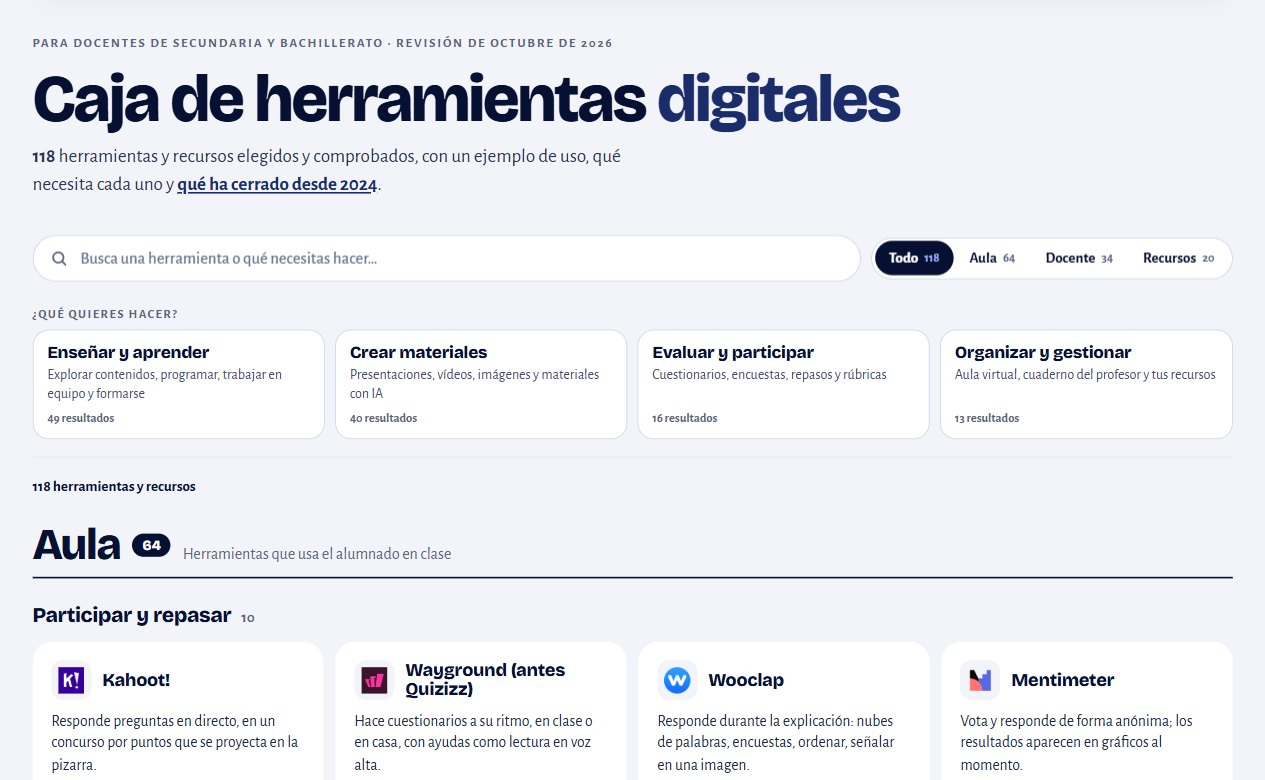
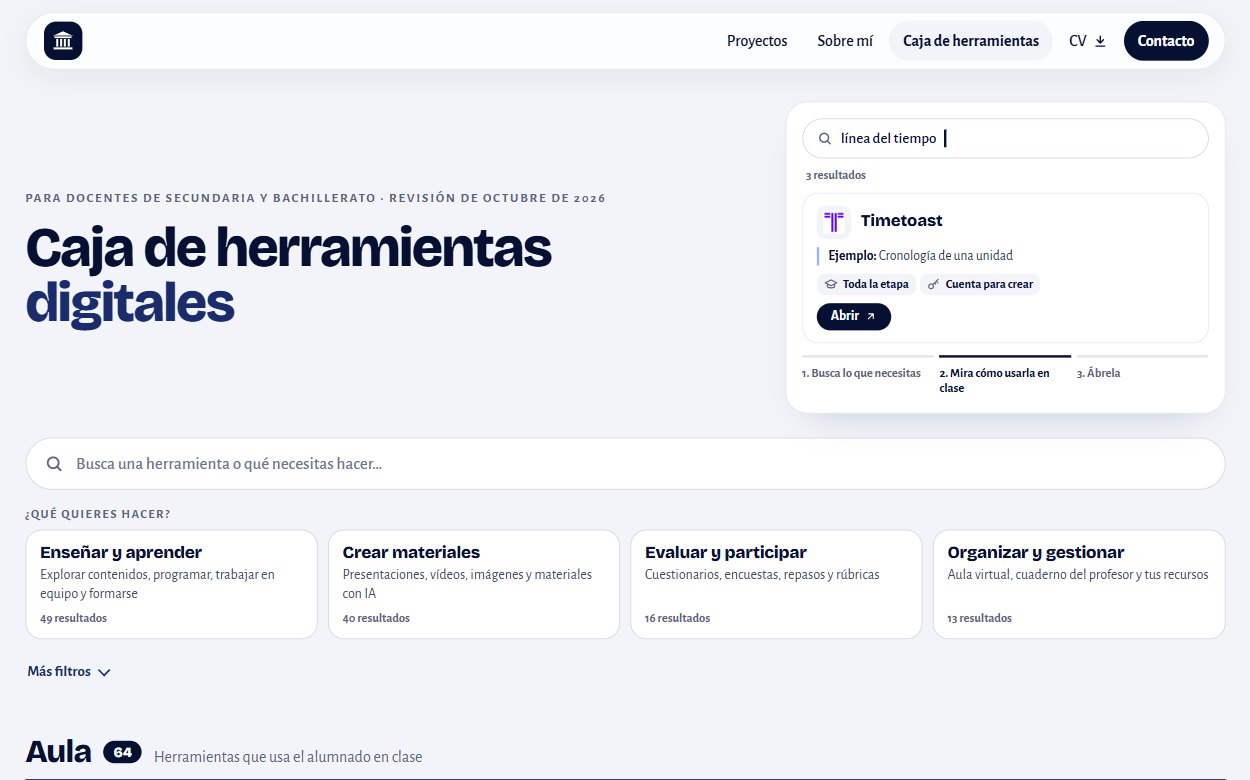
Caja de herramientas: animación en el hero, más aire entre categorías y sin recuento total
Actualizadas las capturas y el texto de la Caja en la página del Repositorio digital.

diff --git a/herramientas/index.html b/herramientas/index.html
@@ -115,8 +115,38 @@ footer a{font-weight:700}
 .head{margin-top:32px}
 .head h1{font:800 clamp(34px,4.4vw,56px)/1 var(--f-disp);letter-spacing:-.03em;margin-top:10px}
 .head h1 span{color:var(--navy3)}
-.head-p{font-size:clamp(16.5px,1.5vw,18.5px);color:#2A3352;margin-top:10px;max-width:62ch}
-.head-p a{font-weight:700;color:var(--navy3)}
+.head{display:grid;grid-template-columns:minmax(0,1fr) minmax(0,440px);gap:24px 48px;align-items:center}
+/* demostración animada: una búsqueda real y la ficha que devuelve, en tres pasos */
+.demo{position:relative;background:#fff;border:1px solid var(--line);border-radius:22px;padding:16px;box-shadow:0 18px 40px -24px rgba(6,16,51,.25)}
+.d-search{display:flex;align-items:center;gap:8px;height:40px;padding:0 14px;border:1px solid #CDD5E5;border-radius:999px;font:500 15px var(--f-body);color:var(--txt)}
+.d-search svg{width:16px;height:16px;stroke:var(--mut);fill:none;stroke-width:2.2;stroke-linecap:round;flex:none}
+.d-q{white-space:nowrap;overflow:hidden}
+.d-caret{width:2px;height:18px;background:var(--navy);animation:blink 1s steps(1) infinite}
+@keyframes blink{50%{opacity:0}}
+.d-n{font:700 12.5px var(--f-body);color:var(--mut);margin:10px 4px 8px;min-height:16px;opacity:0;transition:opacity .3s}
+.d-card{border:1px solid var(--line);border-radius:16px;padding:12px 14px;display:grid;gap:8px;opacity:0;transform:translateY(10px);transition:opacity .45s,transform .45s}
+.demo.s2 .d-n,.demo.s3 .d-n,.demo.s2 .d-card,.demo.s3 .d-card{opacity:1;transform:none}
+.d-card .tool-h{grid-template-columns:34px minmax(0,1fr);gap:10px}
+.d-card .lg{width:34px;height:34px;border-radius:10px}
+.d-card .lg img{width:22px;height:22px}
+.d-card h4{font:800 16.5px/1.1 var(--f-disp)}
+.d-card .ex{font-size:13.5px;line-height:1.35;color:#2A3352;padding-left:9px;border-left:3px solid var(--sky)}
+.d-card .ex b{color:var(--navy)}
+.d-card .facts{gap:4px}
+.d-card .fact{font-size:12.5px;padding:3px 7px}
+.d-open{justify-self:start;display:inline-flex;align-items:center;gap:6px;font:700 13.5px var(--f-body);color:#fff;background:var(--navy);border-radius:999px;padding:6px 14px;transition:transform .3s,box-shadow .3s}
+.d-open svg{width:12px;height:12px;stroke:currentColor;fill:none;stroke-width:2.2;stroke-linecap:round;stroke-linejoin:round}
+.demo.s3 .d-open{transform:scale(1.06);box-shadow:0 0 0 5px rgba(159,179,255,.55)}
+.d-steps{list-style:none;padding:0;display:grid;grid-template-columns:repeat(3,minmax(0,1fr));gap:6px;margin-top:12px;counter-reset:d}
+.d-steps li{counter-increment:d;font:700 12.5px/1.25 var(--f-body);color:var(--mut);padding-top:8px;border-top:3px solid var(--line);transition:color .3s,border-color .3s}
+.d-steps li::before{content:counter(d) ". "}
+.demo.s1 .d-steps li:nth-child(1),.demo.s2 .d-steps li:nth-child(2),.demo.s3 .d-steps li:nth-child(3){color:var(--navy);border-color:var(--navy)}
+.d-pause{position:absolute;top:-12px;right:-12px;width:32px;height:32px;border-radius:50%;border:1px solid var(--line);background:#fff;display:grid;place-items:center;cursor:pointer;box-shadow:0 4px 12px rgba(6,16,51,.08)}
+.d-pause svg{width:12px;height:12px;fill:var(--navy)}
+.d-pause[hidden]{display:none}
+@media (max-width:900px){.head{grid-template-columns:1fr}.demo{max-width:520px}}
+@media (max-width:560px){.demo{padding:12px}.d-card .ex{display:none}.d-pause{top:-10px;right:-6px}}
+@media (prefers-reduced-motion:reduce){.d-card,.d-n,.d-steps li,.d-open{transition:none}.d-caret{animation:none}}
 
 /* buscador: primer nivel = búsqueda + «¿Qué quieres hacer?» */
 .finder{margin-top:24px}
@@ -173,6 +203,7 @@ footer a{font-weight:700}
 
 /* resultados y filtros activos */
 .state{display:flex;align-items:center;gap:10px;flex-wrap:wrap;margin-top:16px;padding-top:14px;border-top:1px solid var(--line);min-height:44px}
+.state:empty{min-height:0;padding:0;border:0}
 .state .count{margin:0;font:700 15px var(--f-body);color:var(--navy)}
 .active{display:flex;flex-wrap:wrap;align-items:center;gap:6px}
 .tagx{display:inline-flex;align-items:center;gap:6px;font:600 14px var(--f-body);color:var(--navy);background:var(--ice);border:0;border-radius:999px;padding:6px 8px 6px 12px;min-height:34px;cursor:pointer}
@@ -202,15 +233,15 @@ body.mini-on .top{transform:translateY(-140%)}
 @media (prefers-reduced-motion:reduce){.goal,.mf-t::after,.top{transition:none}}
 
 /* listado */
-.secblock{margin-top:88px}
+.secblock{margin-top:120px}
 .secblock:first-child{margin-top:28px}
 .sec-t{display:flex;align-items:baseline;gap:12px;flex-wrap:wrap;padding-bottom:10px;border-bottom:2px solid var(--navy)}
 .sec-t h2{font:800 clamp(26px,2.6vw,32px)/1 var(--f-disp);letter-spacing:-.02em}
 .sec-t .n{font:800 14px var(--f-disp);background:var(--navy);color:#fff;border-radius:999px;padding:3px 10px;align-self:center}
 .sec-t p{color:var(--mut);font-size:16px}
-.cat{margin-top:52px}
-.secblock .cat:first-of-type{margin-top:28px}
-.cat-h{display:flex;align-items:baseline;gap:10px;margin-bottom:16px}
+.cat{margin-top:80px}
+.secblock .cat:first-of-type{margin-top:40px}
+.cat-h{display:flex;align-items:baseline;gap:10px;margin-bottom:20px}
 .cat-h h3{font:800 21px/1.1 var(--f-disp);letter-spacing:-.015em}
 .cat-h span{color:var(--mut);font-weight:700;font-size:15px}
 .grid{display:grid;grid-template-columns:repeat(auto-fill,minmax(min(100%,272px),1fr));gap:16px;align-items:stretch}
@@ -348,9 +379,20 @@ body.mini-on .top{transform:translateY(-140%)}
 
 <main>
  <section class="head" aria-labelledby="ph1">
-  <span class="lab">Para docentes de Secundaria y Bachillerato · Revisión de octubre de 2026</span>
-  <h1 id="ph1">Caja de herramientas <span>digitales</span></h1>
-  <p class="head-p"><b id="s-total">118</b> herramientas y recursos elegidos y comprobados, con un ejemplo de uso, qué necesita cada uno y <a href="#cambios">qué ha cerrado desde 2024</a>.</p>
+  <div class="head-t">
+   <span class="lab">Para docentes de Secundaria y Bachillerato · Revisión de octubre de 2026</span>
+   <h1 id="ph1">Caja de herramientas <span>digitales</span></h1>
+   <p class="sr">Herramientas y recursos elegidos y comprobados. Busca lo que necesitas, mira cómo usarlo en clase con un ejemplo y ábrelo.</p>
+  </div>
+  <div class="demo s1" id="demo">
+   <div aria-hidden="true">
+    <div class="d-search"><svg viewBox="0 0 24 24"><circle cx="11" cy="11" r="6.5"/><path d="m20 20-4.4-4.4"/></svg><span class="d-q" id="d-q"></span><span class="d-caret"></span></div>
+    <p class="d-n" id="d-n"></p>
+    <div class="d-card" id="d-card"></div>
+    <ol class="d-steps"><li>Busca lo que necesitas</li><li>Mira cómo usarla en clase</li><li>Ábrela</li></ol>
+   </div>
+   <button type="button" class="d-pause" id="d-pause" aria-label="Pausar la animación" hidden><svg viewBox="0 0 24 24" aria-hidden="true"><rect x="6" y="5" width="4" height="14" rx="1"/><rect x="14" y="5" width="4" height="14" rx="1"/></svg></button>
+  </div>
  </section>
 
  <section class="finder" id="herramientas" aria-label="Buscar en la caja">
@@ -422,7 +464,7 @@ body.mini-on .top{transform:translateY(-140%)}
 <footer><span>Jorge Delgado Aguilera · Diseño de materiales educativos digitales</span><span>Revisado en octubre de 2026 · <a href="/">Volver al portfolio</a></span></footer>
 </div>
 
-<script src="tools.js?v=6"></script>
+<script src="tools.js?v=7"></script>
 <script>
 // si los datos no llegan o algo falla al pintar, se avisa en lugar de mostrar un catálogo vacío
 function loadFail(why){
@@ -591,10 +633,10 @@ function render(){
  if(state.sec!=='all')act.push(`<button type="button" class="tagx" data-rm="sec">${SECTIONS[state.sec].n}${X}<span class="sr"> Quitar el tipo de recurso</span></button>`);
  if(state.area!==null)act.push(`<button type="button" class="tagx" data-rm="area">${AR[state.area].n}${X}<span class="sr"> Quitar la materia</span></button>`);
  const what=act.length?`${shown} ${shown===1?'resultado':'resultados'}`:`${shown} ${unit(shown)}`;
- $('state').innerHTML=`<p class="count">${what}</p>`+(act.length?`<div class="active"><span class="sr">Filtros activos:</span>${act.join('')}${act.length>1?'<button type="button" class="clearall" data-rm="all">Limpiar todo</button>':''}</div>`:'');
+ $('state').innerHTML=!act.length?'':`<p class="count">${what}</p>`+(act.length?`<div class="active"><span class="sr">Filtros activos:</span>${act.join('')}${act.length>1?'<button type="button" class="clearall" data-rm="all">Limpiar todo</button>':''}</div>`:'');
  $('q-clear').hidden=!state.raw;
  $('mb-n').textContent=(state.p!==null)+sec2||'';
- $('mb-c').textContent=what;
+ $('mb-c').textContent=act.length?what:'';
  // estado vacío: solo si de verdad no hay resultados (el texto no existe en la página hasta entonces)
  const E=$('empty');
  if(shown){E.hidden=true;E.innerHTML='';return;}
@@ -640,7 +682,6 @@ if('IntersectionObserver' in window){
  const io2=new IntersectionObserver(([e])=>{const past=!e.isIntersecting&&e.boundingClientRect.top<0;$('minibar').hidden=!past;document.body.classList.toggle('mini-on',past);});
  io2.observe($('herramientas'));
 }
-$('s-total').textContent=TOOLS.length;
 try{render();}catch(err){console.error(err);loadFail('Ha fallado al mostrarse.');}
 
 // ---------- qué ha cambiado: balance con los datos de la caja
@@ -655,6 +696,34 @@ $('changes').innerHTML=CHANGES.slice(0,-1).map(c=>{
  return `<div class="chrow rv"><div><span class="tagc ${rename?'nombre':'cierre'}">${rename?'Cambio de nombre':'Ha cerrado'}</span><h3>${esc(c.n)}</h3><p>${esc(c.what)}</p></div><span class="arrow" aria-hidden="true">${I.arrow}</span><div class="now"><span class="lab">${rename?'Dónde está ahora':'Qué usar ahora'}</span><p>${esc(c.alt)}</p></div></div>`;
 }).join('');
 $('chnew').innerHTML=`<div><span class="lab">Novedad</span><h3>${esc(last.n)}</h3><p>${esc(last.what)}</p></div><div class="alt"><b>Qué hacer</b><p>${esc(last.alt)}</p></div>`;
+
+// ---------- demostración del hero: búsquedas reales y la primera ficha que devuelve el propio buscador
+(()=>{
+ const D=$('demo'),Q=$('d-q'),N=$('d-n'),C=$('d-card'),B=$('d-pause');
+ const scenes=['línea del tiempo','cuestionario','geometría','programar'].map(q=>{const r=TOOLS.filter(t=>t.s!=='recursos'&&match(t,query(q)));return r.length?{q,n:r.length,t:r[0]}:null}).filter(Boolean);
+ if(!scenes.length){D.hidden=true;return;}
+ const draw=sc=>{const t=sc.t,aula=t.s==='aula',m=t.n.match(/^(.+?)\s*\((.+)\)$/);
+  N.textContent=`${sc.n} ${sc.n===1?'resultado':'resultados'}`;
+  C.innerHTML=`<div class="tool-h"><span class="lg">${logo(t)}</span><h4>${esc(m?m[1]:t.n)}</h4></div><p class="ex"><b>Ejemplo:</b> ${esc(t.i[0])}</p><div class="facts">${aula?fact(I.cap,t.c)+fact(I.key,t.cta,/^no necesita/i.test(t.cta)?'ok':''):fact(I.eur,t.coste,/gratu|incluido|sin coste/i.test(t.coste)?'ok':'')}</div><span class="d-open">Abrir ${I.ext}</span>`;};
+ const still=matchMedia('(prefers-reduced-motion: reduce)');
+ let i=0,timers=[],paused=false,seen=true;
+ const clear=()=>{timers.forEach(clearTimeout);timers=[];};
+ const at=(ms,f)=>timers.push(setTimeout(f,ms));
+ const play=()=>{clear();const sc=scenes[i%scenes.length];D.className='demo s1';Q.textContent='';draw(sc);
+  [...sc.q].forEach((ch,k)=>at(400+k*75,()=>{Q.textContent+=ch}));
+  const t0=400+sc.q.length*75+350;
+  at(t0,()=>{D.className='demo s2'});at(t0+2600,()=>{D.className='demo s3'});at(t0+4200,()=>{i++;if(!paused&&seen)play();});};
+ const showStill=()=>{clear();const sc=scenes[0];draw(sc);Q.textContent=sc.q;D.className='demo s2';};
+ const icon=p=>p?'<svg viewBox="0 0 24 24" aria-hidden="true"><path d="M7 5v14l12-7z"/></svg>':'<svg viewBox="0 0 24 24" aria-hidden="true"><rect x="6" y="5" width="4" height="14" rx="1"/><rect x="14" y="5" width="4" height="14" rx="1"/></svg>';
+ const setPause=p=>{paused=p;B.innerHTML=icon(p);B.setAttribute('aria-label',p?'Reanudar la animación':'Pausar la animación');if(p)clear();else play();};
+ const start=()=>{if(still.matches){B.hidden=true;showStill();}else{B.hidden=false;paused=false;B.innerHTML=icon(false);play();}};
+ B.addEventListener('click',()=>setPause(!paused));
+ still.addEventListener('change',start);
+ // fuera de la pantalla o con la pestaña oculta, se detiene
+ if('IntersectionObserver' in window)new IntersectionObserver(([e])=>{const was=seen;seen=e.isIntersecting;if(seen&&!was&&!paused&&!still.matches)play();if(!seen)clear();}).observe(D);
+ document.addEventListener('visibilitychange',()=>{if(document.hidden)clear();else if(seen&&!paused&&!still.matches)play();});
+ start();
+})();
 
 const io='IntersectionObserver' in window?new IntersectionObserver(es=>es.forEach(e=>{if(e.isIntersecting){e.target.classList.add('in');io.unobserve(e.target)}}),{threshold:.1}):null;
 document.querySelectorAll('.rv').forEach(el=>io?io.observe(el):el.classList.add('in'));

diff --git a/proyectos/repositorio-digital/index.html b/proyectos/repositorio-digital/index.html
@@ -71,12 +71,12 @@
 <ul class="ver-l"><li>Google Sites para el Colegio Cerrado de Calderón (Málaga).</li><li>Por etapas y materias, con un apartado de Apoyo docente.</li><li>Presentada por el centro en Braining (Valencia, abril de 2025).</li></ul>
 <figure><a href="/assets/proyectos/repositorio-digital/inicio-2024.jpg" target="_blank" rel="noopener" aria-label="Ver la imagen a tamaño completo: Portada del repositorio en Google Sites: menú por etapas (Infantil, Primaria, Secundaria y Bachillerato, Apoyo docente, Recursos) y los objetivos del repositorio"><img src="/assets/proyectos/repositorio-digital/inicio-2024.jpg" alt="Portada del repositorio en Google Sites: menú por etapas (Infantil, Primaria, Secundaria y Bachillerato, Apoyo docente, Recursos) y los objetivos del repositorio" loading="lazy" decoding="async" width="1200" height="750"></a><figcaption>La portada, con el menú por etapas.</figcaption></figure></div>
 <div class="ver ver-new"><span class="ver-y">2026</span><h3>La caja de herramientas</h3>
-<ul class="ver-l"><li>Web propia, pensada para Secundaria.</li><li>Herramientas digitales para el aula y el docente. Recursos disponibles.</li><li>Se busca por lo que necesitas hacer: enseñar, crear materiales, evaluar u organizar.</li><li>Revisada una a una en octubre de 2026.</li><li>Lo que ha cerrado, su alternativa y la IA con cuenta de centro.</li></ul>
-<figure><a href="/assets/proyectos/repositorio-digital/caja-2026.jpg?v=3" target="_blank" rel="noopener" aria-label="Ver la imagen a tamaño completo: Portada de la Caja de herramientas digitales: buscador, secciones Todo, Aula, Docente y Recursos y la pregunta «¿Qué quieres hacer?» con cuatro objetivos"><img src="/assets/proyectos/repositorio-digital/caja-2026.jpg?v=3" alt="Portada de la Caja de herramientas digitales: buscador, secciones Todo, Aula, Docente y Recursos y la pregunta «¿Qué quieres hacer?» con cuatro objetivos" loading="lazy" decoding="async" width="1265" height="780"></a><figcaption>La portada: buscador y «¿Qué quieres hacer?».</figcaption></figure></div>
+<ul class="ver-l"><li>Web propia, pensada para Secundaria.</li><li>Herramientas digitales para el aula y el docente. Recursos disponibles.</li><li>Se busca por lo que necesitas hacer: enseñar, crear materiales, evaluar u organizar.</li><li>Filtros secundarios por tipo de recurso y por materia.</li><li>Revisada una a una en octubre de 2026.</li><li>Lo que ha cerrado, su alternativa y la IA con cuenta de centro.</li></ul>
+<figure><a href="/assets/proyectos/repositorio-digital/caja-2026.jpg?v=4" target="_blank" rel="noopener" aria-label="Ver la imagen a tamaño completo: Portada de la Caja de herramientas digitales: una animación muestra una búsqueda («línea del tiempo») y la ficha de Timetoast que devuelve; debajo, el buscador, la pregunta «¿Qué quieres hacer?» con cuatro objetivos y «Más filtros»"><img src="/assets/proyectos/repositorio-digital/caja-2026.jpg?v=4" alt="Portada de la Caja de herramientas digitales: una animación muestra una búsqueda («línea del tiempo») y la ficha de Timetoast que devuelve; debajo, el buscador, la pregunta «¿Qué quieres hacer?» con cuatro objetivos y «Más filtros»" loading="lazy" decoding="async" width="1250" height="780"></a><figcaption>La portada: animación de cómo se usa, buscador y «¿Qué quieres hacer?».</figcaption></figure></div>
 </div>
 <div class="ficha-new">
 <div><span class="ver-y">2026</span><h3>La misma ficha, dos años después</h3><p>StopMotion sigue, pero la ficha cambia: dice qué hace el alumnado, da ideas para clase y aclara nivel, dispositivos y si hace falta cuenta.</p></div>
-<figure><a href="/assets/proyectos/repositorio-digital/ficha-2026.jpg?v=3" target="_blank" rel="noopener" aria-label="Ver la imagen a tamaño completo: Ficha de Stop Motion Studio en la Caja de herramientas de 2026, con los detalles abiertos: qué hace el alumnado, un ejemplo, toda la etapa, sin cuenta, más ideas para clase, dispositivos y enlace a tutoriales"><img src="/assets/proyectos/repositorio-digital/ficha-2026.jpg?v=3" alt="Ficha de Stop Motion Studio en la Caja de herramientas de 2026, con los detalles abiertos: qué hace el alumnado, un ejemplo, toda la etapa, sin cuenta, más ideas para clase, dispositivos y enlace a tutoriales" loading="lazy" decoding="async" width="311" height="469"></a><figcaption><b>2026 · Caja de herramientas.</b> Qué hace el alumnado, ideas para clase, nivel, dispositivos, cuenta y tutoriales.</figcaption></figure>
+<figure><a href="/assets/proyectos/repositorio-digital/ficha-2026.jpg?v=4" target="_blank" rel="noopener" aria-label="Ver la imagen a tamaño completo: Ficha de Stop Motion Studio en la Caja de herramientas de 2026, con los detalles abiertos: qué hace el alumnado, un ejemplo, toda la etapa, sin cuenta, más ideas para clase, dispositivos y enlace a tutoriales"><img src="/assets/proyectos/repositorio-digital/ficha-2026.jpg?v=4" alt="Ficha de Stop Motion Studio en la Caja de herramientas de 2026, con los detalles abiertos: qué hace el alumnado, un ejemplo, toda la etapa, sin cuenta, más ideas para clase, dispositivos y enlace a tutoriales" loading="lazy" decoding="async" width="289" height="459"></a><figcaption><b>2026 · Caja de herramientas.</b> Qué hace el alumnado, ideas para clase, nivel, dispositivos, cuenta y tutoriales.</figcaption></figure>
 </div></section>
  </div>
  <section class="sec related" aria-labelledby="rel-h">

diff --git a/_build/data.py b/_build/data.py
@@ -350,12 +350,12 @@ FIG:/assets/proyectos/repositorio-digital/ficha-2024.jpg?v=2|Ficha de StopMotion
 <ul class="ver-l"><li>Google Sites para el Colegio Cerrado de Calderón (Málaga).</li><li>Por etapas y materias, con un apartado de Apoyo docente.</li><li>Presentada por el centro en Braining (Valencia, abril de 2025).</li></ul>
 FIG:/assets/proyectos/repositorio-digital/inicio-2024.jpg|Portada del repositorio en Google Sites: menú por etapas (Infantil, Primaria, Secundaria y Bachillerato, Apoyo docente, Recursos) y los objetivos del repositorio|La portada, con el menú por etapas.</div>
 <div class="ver ver-new"><span class="ver-y">2026</span><h3>La caja de herramientas</h3>
-<ul class="ver-l"><li>Web propia, pensada para Secundaria.</li><li>Herramientas digitales para el aula y el docente. Recursos disponibles.</li><li>Se busca por lo que necesitas hacer: enseñar, crear materiales, evaluar u organizar.</li><li>Revisada una a una en octubre de 2026.</li><li>Lo que ha cerrado, su alternativa y la IA con cuenta de centro.</li></ul>
-FIG:/assets/proyectos/repositorio-digital/caja-2026.jpg?v=3|Portada de la Caja de herramientas digitales: buscador, secciones Todo, Aula, Docente y Recursos y la pregunta «¿Qué quieres hacer?» con cuatro objetivos|La portada: buscador y «¿Qué quieres hacer?».</div>
+<ul class="ver-l"><li>Web propia, pensada para Secundaria.</li><li>Herramientas digitales para el aula y el docente. Recursos disponibles.</li><li>Se busca por lo que necesitas hacer: enseñar, crear materiales, evaluar u organizar.</li><li>Filtros secundarios por tipo de recurso y por materia.</li><li>Revisada una a una en octubre de 2026.</li><li>Lo que ha cerrado, su alternativa y la IA con cuenta de centro.</li></ul>
+FIG:/assets/proyectos/repositorio-digital/caja-2026.jpg?v=4|Portada de la Caja de herramientas digitales: una animación muestra una búsqueda («línea del tiempo») y la ficha de Timetoast que devuelve; debajo, el buscador, la pregunta «¿Qué quieres hacer?» con cuatro objetivos y «Más filtros»|La portada: animación de cómo se usa, buscador y «¿Qué quieres hacer?».</div>
 </div>
 <div class="ficha-new">
 <div><span class="ver-y">2026</span><h3>La misma ficha, dos años después</h3><p>StopMotion sigue, pero la ficha cambia: dice qué hace el alumnado, da ideas para clase y aclara nivel, dispositivos y si hace falta cuenta.</p></div>
-FIG:/assets/proyectos/repositorio-digital/ficha-2026.jpg?v=3|Ficha de Stop Motion Studio en la Caja de herramientas de 2026, con los detalles abiertos: qué hace el alumnado, un ejemplo, toda la etapa, sin cuenta, más ideas para clase, dispositivos y enlace a tutoriales|<b>2026 · Caja de herramientas.</b> Qué hace el alumnado, ideas para clase, nivel, dispositivos, cuenta y tutoriales.
+FIG:/assets/proyectos/repositorio-digital/ficha-2026.jpg?v=4|Ficha de Stop Motion Studio en la Caja de herramientas de 2026, con los detalles abiertos: qué hace el alumnado, un ejemplo, toda la etapa, sin cuenta, más ideas para clase, dispositivos y enlace a tutoriales|<b>2026 · Caja de herramientas.</b> Qué hace el alumnado, ideas para clase, nivel, dispositivos, cuenta y tutoriales.
 </div>"""),
     ],
     related=["audita-tu-programacion", "rubrica-materiales-digitales", "e-portfolio-master"],

diff --git a/CLAUDE.md b/CLAUDE.md
@@ -21,7 +21,9 @@ Cada push a `main` se publica solo en 1-2 minutos. El Consejo de Clío vive en o
   al bajar, barra fina fija con buscador + «Filtros» (aparece al pasar el buscador). Si `tools.js` falla, aviso con reintento.
   Antes: (2) «¿Qué quieres hacer?» = `TASKS`, cuatro objetivos
   (Enseñar y aprender, Crear materiales, Evaluar y participar, Organizar y gestionar); cada herramienta cae en uno solo según
-  su categoría (`s:cat`); siempre visibles, desactivados si no tienen resultados; (3) recuento + filtros activos. Fichas compactas:
+  su categoría (`s:cat`); siempre visibles, desactivados si no tienen resultados; (3) recuento + filtros activos (solo cuando hay alguno; sin filtros no se muestra el total). Hero sin texto: animación
+  `#demo` que escribe búsquedas reales y muestra la primera ficha que devuelve el buscador (con pausa; quieta con movimiento
+  reducido; se detiene fuera de pantalla). Espacios: 80px entre categorías, 120px entre secciones. Fichas compactas:
   frase de uso + primer ejemplo (`i[0]`) + etiquetas; el resto va en «Detalles». Las etiquetas salen solo de los datos.
   Lo que ha cerrado o cambiado sale de `CHANGES` en `tools.js` (el último elemento es la novedad destacada);
   el balance (siguen, nuevas, otro nombre, cerradas) se calcula con el campo `st`.
